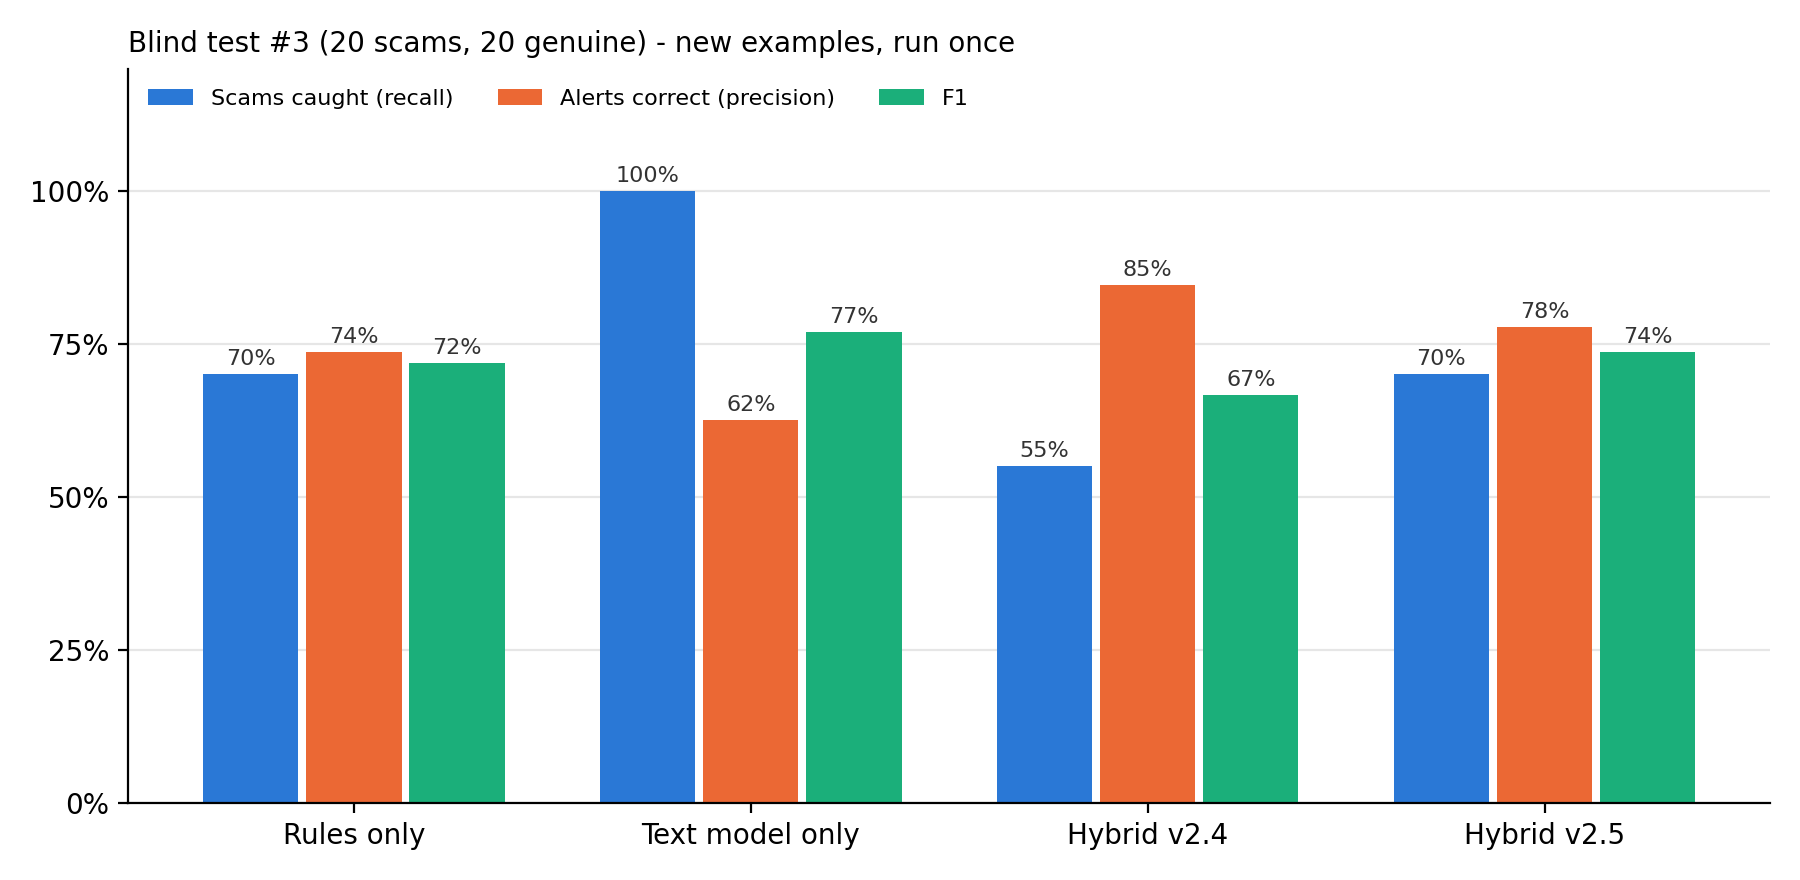
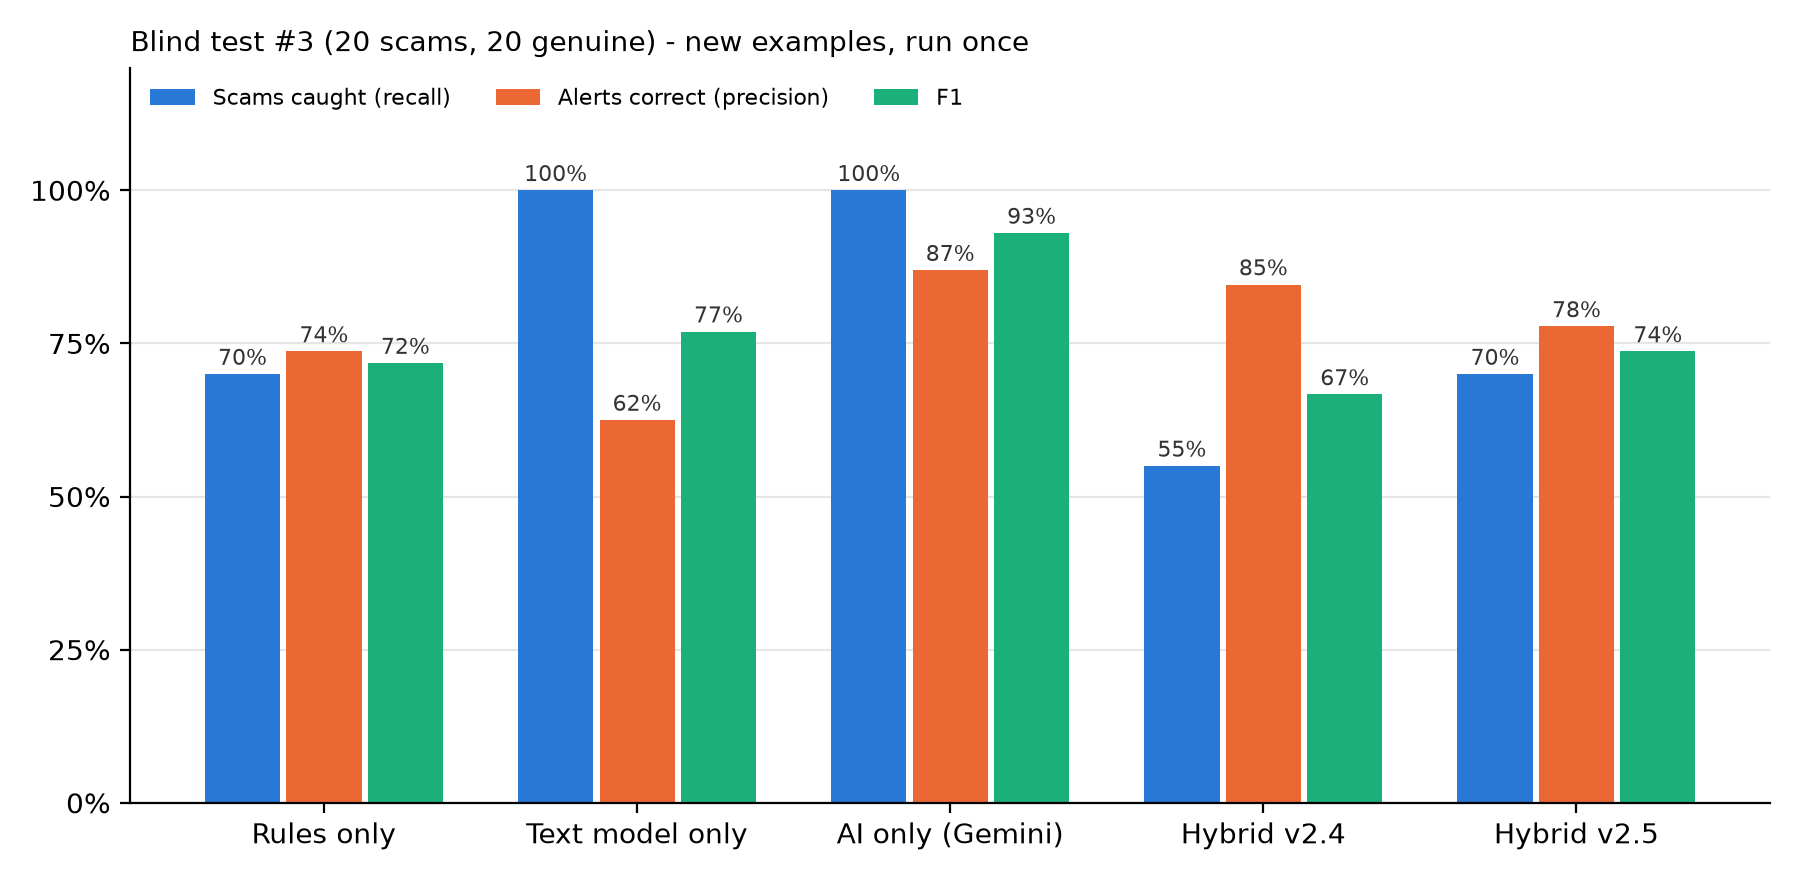
Update: Gemini run for comparison of v2.2 and v2.4 for blind test 2 and also run for blind test 3

diff --git a/outputs/compare_v22_vs_v24_report.md b/outputs/compare_v22_vs_v24_report.md
@@ -10,7 +10,7 @@ Sanity check: v2.2 hybrid on the original 80 examples = 19/40 caught, 2/40 false
 | Rules only | 14/20 | 78% | 74% | 4/20 |
 | Text model only | 20/20 | 61% | 75% | 13/20 |
 | **Hybrid v2.2** | **6/20** | **100%** | **46%** | **0/20** |
-| AI only (Gemini) | not run yet (needs GEMINI_API_KEY) | | | |
+| AI only (Gemini) | 20/20 | 80% | 89% | 5/20 |
 
 ## Table B - v2.4
 
@@ -19,6 +19,6 @@ Sanity check: v2.2 hybrid on the original 80 examples = 19/40 caught, 2/40 false
 | Rules only | 17/20 | 77% | 81% | 5/20 |
 | Text model only | 20/20 | 59% | 74% | 14/20 |
 | **Hybrid v2.4** | **17/20** | **81%** | **83%** | **4/20** |
-| AI only (Gemini) | not run yet (needs GEMINI_API_KEY) | | | |
+| AI only (Gemini) | 20/20 | 80% | 89% | 5/20 |
 
 Notes: Gemini's row is identical in both tables because Gemini does not change between versions. Rules only improved because v2.4 uses the wider rulebook. Event check and website age are off for all approaches. Small test set (40), so treat differences of 1-2 examples with caution.

diff --git a/outputs/blind3_report.md b/outputs/blind3_report.md
@@ -6,9 +6,9 @@ Test file: `data/blind3_test_set.csv` - 20 scams, 20 genuine, built by an indepe
 |---|---|---|---|---|
 | Rules only | 14/20 | 74% | 72% | 5/20 |
 | Text model only | 20/20 | 62% | 77% | 12/20 |
+| AI only (Gemini) | 20/20 | 87% | 93% | 3/20 |
 | Hybrid v2.4 | 11/20 | 85% | 67% | 2/20 |
 | **Hybrid v2.5** | **14/20** | **78%** | **74%** | **4/20** |
-| AI only (Gemini) | not run yet (needs GEMINI_API_KEY) | | | |
 
 Examples where v2.4 and v2.5 disagree: 5
 - C17 (scam): v2.4 no alert (score 0.37), v2.5 alert (score 0.40)
